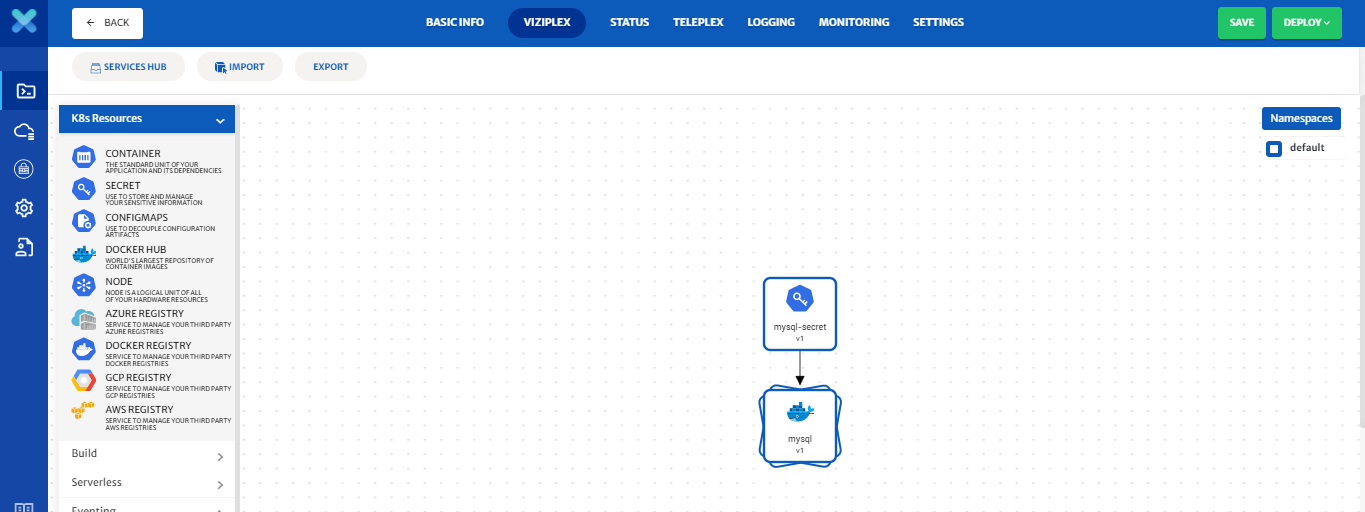
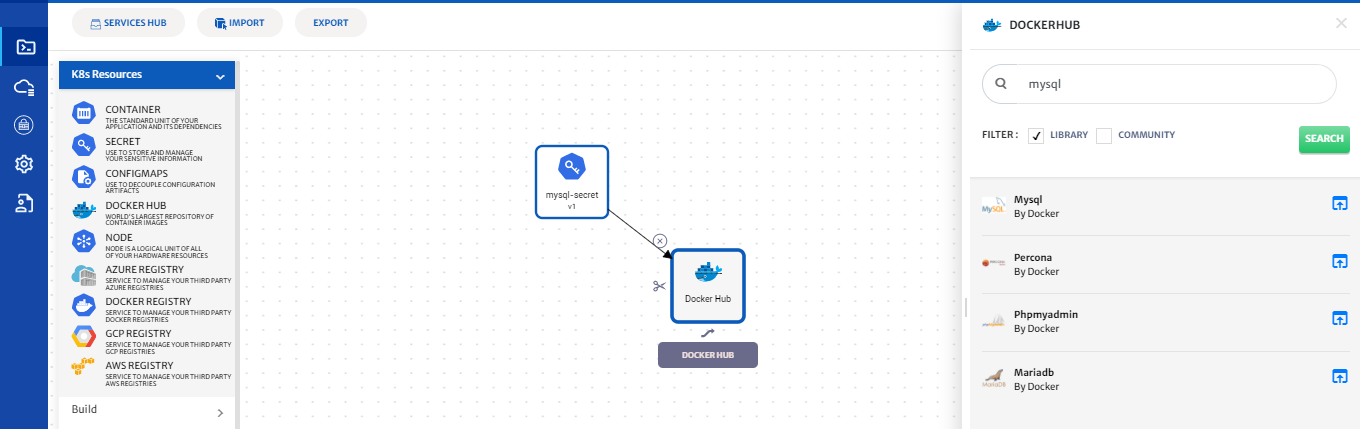
persistent-update

diff --git a/pages/user-guide/getting-started/attach-persistent-volume-with-application/attach-persistent-volume-with-application.md b/pages/user-guide/getting-started/attach-persistent-volume-with-application/attach-persistent-volume-with-application.md
@@ -1,5 +1,7 @@
 # Attach Persistent Volume with Application
 
+A Persistent Volume (PV) is a piece of storage in the cluster that gets provisioned by an administrator or dynamically provisioned using Storage Classes. It is a resource in the cluster just like a node is a cluster resource. PVs are volume plugins like Volumes, but have a lifecycle independent of any individual Pod that uses the PV. The simplest way to create a persistent volume is statically, that is, you allocate the volume independently and then tell Kubernetes to take over. To know more about PV, click [here](https://kubernetes.io/docs/concepts/storage/persistent-volumes/) or check our guide on how to manage persistent volume [here](https://cloudplex.io/tutorial/persistent-volumes-tutorial/).
+
 The purpose of this guide is to take user through the process of attaching a persistent volume with application and deployment. For a video guide, please click [here](https://drive.google.com/file/d/129MO_dYTHKg4AuchSQ4TkAp5TI4LqEzV/view?usp=sharing).
 
 **Configure the Persistent Volume with MySQL Container**
@@ -20,35 +22,79 @@ Here is how we can attach a persistent volume with MySQL application.
 
 4. Before attaching a volume to the MySQL container, we need to first create and configure a CloudPlex secret service and a mysql container.
 
-5. To create and configure a Mysql container, see our video **How to deploy a MySQL server with a Kubernetes Secret.**
+5. To configure the service, Drag-n-drop **Secret** service from pallet to the canvas.
 
-   ![4](imgs/4.png)
+6. Click on the service to open the configuration panel on the right side.
 
-6. Now that you have created a MySQL container and a CloudPlex secret service, let’s attach persistent volume.
+7. The platform will populate the default values of service (Service Id, Service Name, Namespace)
 
-   > There are many types of volumes, such as persistentVolume, hostPath, and emptyDir. CloudPlex provides support for all these volume types and an easy to use interface to use all of them.
+8. Update Service Id and Service Name to **mysql-secret**
 
-7. Click on the MySQL container and click on **Advanced Configurations**.
+   ![3.1](imgs/3.1.png)
 
-   ![5](imgs/5.png)
+9. By default, the type of secret is Opaque, you can choose different types according to your use case.
 
-8. Select **Container Volumes.** For this video, let's select **Persistent Volume**. Click on new to create a new Persistent Volume. CloudPlex will take you to the volume configurations panel. 
+10. Click on Add secret string and type **MYSQL_ROOT_PASSWORD** in key and the Password in the value field. For this guide, type **5dzo2MsriVJNYTTtud8gOyDc3A** in the value field.
 
-   ![6](imgs/6.png)
+    ![3.2](imgs/3.2.png)
 
-9. CloudPlex automatically populates default values for persistent volume. (Service Id, Service Name, Namespace)
+11. Click on **Save** button to save service
 
-10. Select **ReadWriteMany** from the Access Mode and enter **10Gi** in both the request and limit quantities.
+12. Drag-n-drop the **Docker Hub** service from pallet to the canvas.
+
+13. Drag the arrow from Secret service to container service.
+
+14. Click on the service to open the configuration panel on the right side.
+
+15. Type **MySQL** in the search bar and click on the **search** button.
+
+16. Select MySQL service.
+
+    ![4](imgs/4.png)
+
+17. Click on **Environment Variables** and click on **Add Dynamic** parameters
+
+    ![4.1](imgs/4.1.png)
+
+18. Select **mysql-secret** from the service drop-down.
+
+19. Type **MYSQL_ROOT_PASSWORD** in the key field.
+
+20. Expand Service Attributes and Secrets Data and select **MYSQL_ROOT_PASSWORD.** Cloudplex automatically generates dynamic  parameters for you.
+
+    ![4.2](imgs/4.2.png)
+
+21. Click on the **Save** button to save the parameters.
+
+22. Click on the **Save** button to save the service.
+
+    ![4.3](imgs/4.3.png)
+
+23. Now that you have created a MySQL container and a CloudPlex secret service, let’s attach persistent volume.
+
+    > There are many types of volumes, such as persistentVolume, hostPath, and emptyDir. CloudPlex provides support for all these volume types and an easy to use interface to use all of them.
+
+24. Click on the MySQL container and click on **Advanced Configurations**.
+
+    ![5](imgs/5.png)
+
+25. Select **Container Volumes.** For this video, let's select **Persistent Volume**. Click on new to create a new Persistent Volume. CloudPlex will take you to the volume configurations panel. 
+
+    ![6](imgs/6.png)
+
+26. CloudPlex automatically populates default values for persistent volume. (Service Id, Service Name, Namespace)
+
+27. Select **ReadWriteMany** from the Access Mode and enter **10Gi** in both the request and limit quantities.
 
     ![7](imgs/7.png)
 
-11. Click on the **Save** button to save the service.
+28. Click on the **Save** button to save the service.
 
-12. Saving will take you back to container service configurations. Now, provide the volume mount path of **/var/lib/mysql**. 
+29. Saving will take you back to container service configurations. Now, provide the volume mount path of **/var/lib/mysql**. 
 
     ![8](imgs/8.png)
 
-13. Click on the **Save** button to save the service.
+30. Click on the **Save** button to save the service.
 
     > All the Kubernetes manifests required to create a persistent volume (persistent volume claim, storageclass) are automatically created by the platform.
 
